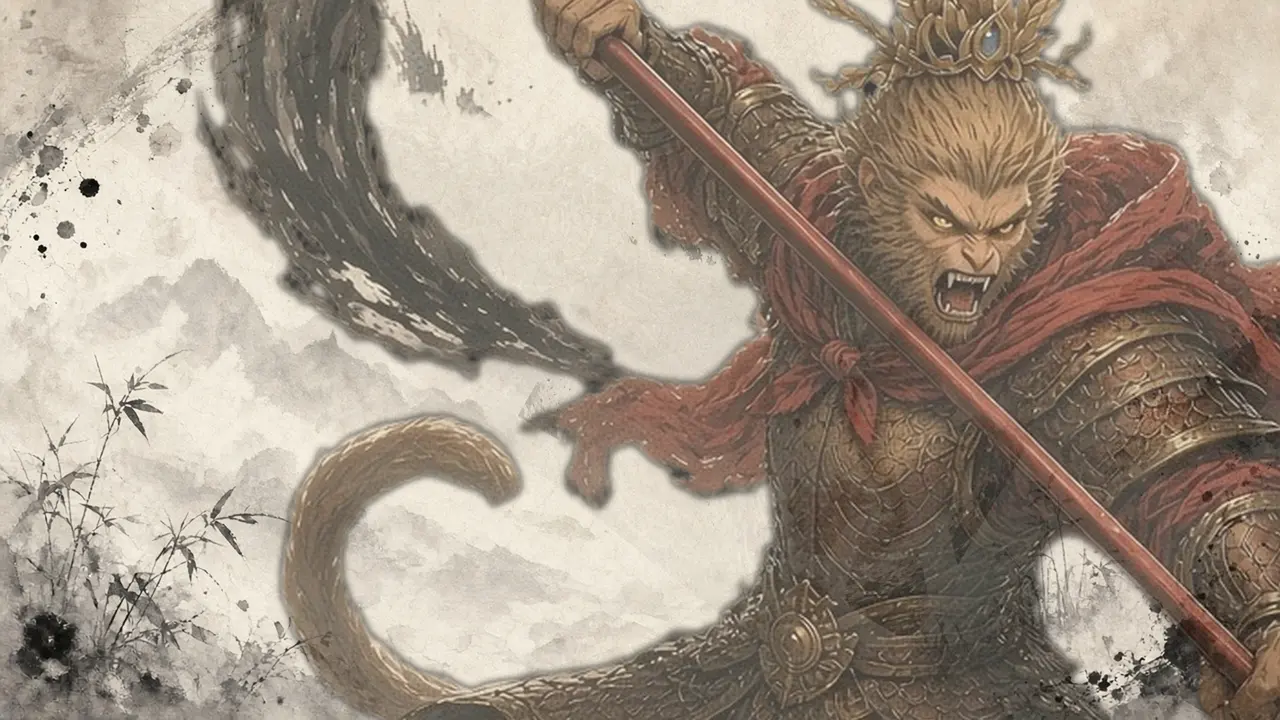
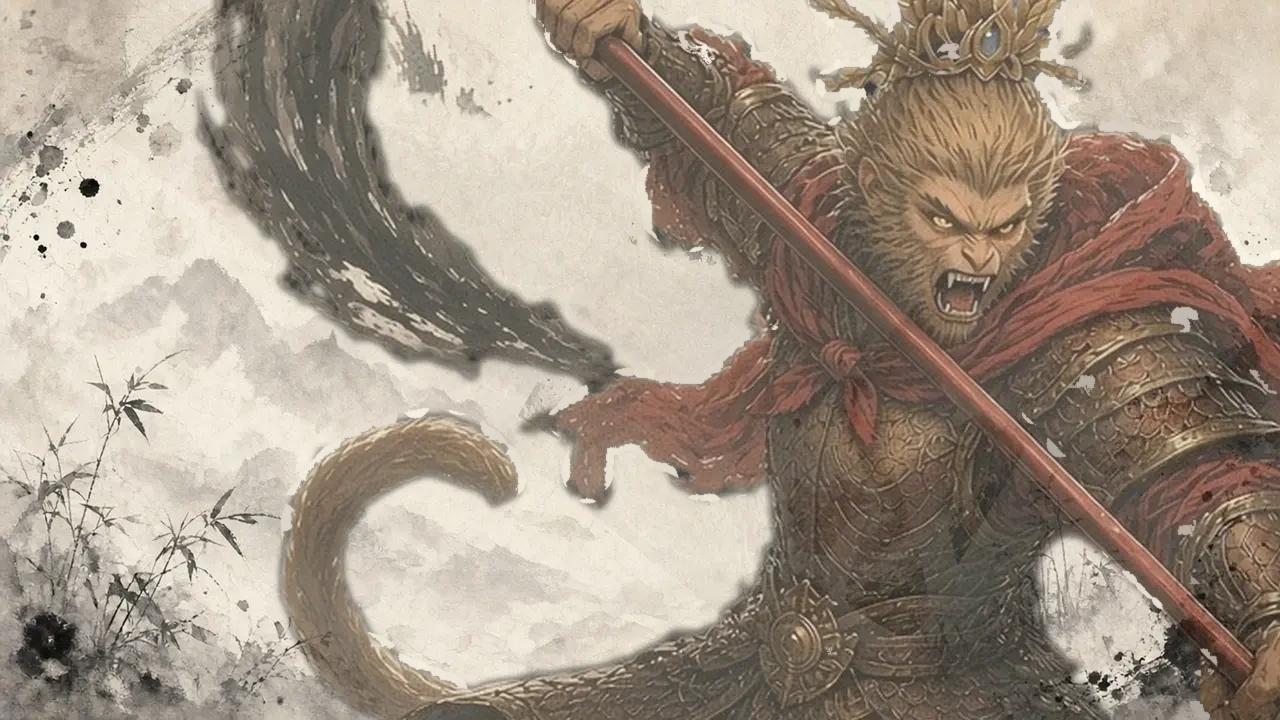
Fill the Wukong close-up and lift the gray rim.
The five boss-fight frames cover the screen without a hard paper strip, and the character frames lose the gray fringe around the cape and tail. The grove and the other pages stay as they were.

diff --git a/bossfight/ui.js b/bossfight/ui.js
@@ -958,18 +958,69 @@
     return WUCLOSE._p;
   }
   function ensureWuClose() { if (!WUCLOSE._p) preloadWu(); }
-  /* 悟空大招特写：浅色宣纸上的五帧。只盖画面，不改出手和伤害。点击关掉。 */
+  /* 悟空大招特写：五帧铺满屏幕。脸和书法留在画面里，边上用画面自身的纸色接出去，不留米色硬边。点击关掉。 */
+  function paintWuPlate(c, im, W, H) {
+    var iw = im.naturalWidth, ih = im.naturalHeight;
+    var fit = Math.min(W / iw, H / ih), cover = Math.max(W / iw, H / ih);
+    var s = fit;
+    if (cover > fit + 0.001) {
+      var overflow = (W / iw >= H / ih) ? (ih - H / cover) : (iw - W / cover);
+      if (overflow < 36) s = cover;
+    }
+    var dw = iw * s, dh = ih * s;
+    var x = (W - dw) / 2, y = (H - dh) / 2;
+    if (dh > H + 1) y = 0;
+    if (dw > W + 1) x = 0;
+    var cv = paintWuPlate.cv || (paintWuPlate.cv = document.createElement('canvas'));
+    var pw = Math.max(1, Math.ceil(W)), ph = Math.max(1, Math.ceil(H));
+    if (cv.width !== pw || cv.height !== ph) { cv.width = pw; cv.height = ph; }
+    var g = cv.getContext('2d');
+    g.setTransform(1, 0, 0, 1, 0, 0);
+    g.imageSmoothingEnabled = true;
+    g.imageSmoothingQuality = 'high';
+    g.drawImage(im, 0, 0, 1, 1, 0, 0, pw, ph);
+    if (x > 0.5) g.drawImage(im, 0, 0, 1, ih, 0, Math.max(0, y), x + 2, dh);
+    if (x + dw < W - 0.5) g.drawImage(im, iw - 1, 0, 1, ih, x + dw - 2, Math.max(0, y), W - (x + dw) + 2, dh);
+    if (y > 0.5) g.drawImage(im, 0, 0, iw, 1, Math.max(0, x), 0, dw, y + 2);
+    if (y + dh < H - 0.5) g.drawImage(im, 0, ih - 1, iw, 1, Math.max(0, x), y + dh - 2, dw, H - (y + dh) + 2);
+    var wide = x > 24 || y > 24;
+    if (wide) { g.filter = 'blur(18px)'; g.drawImage(cv, 0, 0); g.filter = 'none'; }
+    var top = paintWuPlate.top || (paintWuPlate.top = document.createElement('canvas'));
+    if (top.width !== pw || top.height !== ph) { top.width = pw; top.height = ph; }
+    var t = top.getContext('2d');
+    t.setTransform(1, 0, 0, 1, 0, 0);
+    t.clearRect(0, 0, pw, ph);
+    t.imageSmoothingEnabled = true;
+    t.imageSmoothingQuality = 'high';
+    t.drawImage(im, x, y, dw, dh);
+    if (wide) {
+      var fade = 18;
+      t.globalCompositeOperation = 'destination-out';
+      function fadeRect(x0, y0, x1, y1, rx, ry, rw, rh) {
+        var lg = t.createLinearGradient(x0, y0, x1, y1);
+        lg.addColorStop(0, 'rgba(0,0,0,1)');
+        lg.addColorStop(1, 'rgba(0,0,0,0)');
+        t.fillStyle = lg;
+        t.fillRect(rx, ry, rw, rh);
+      }
+      if (x > 0.5) fadeRect(x, 0, x + fade, 0, x, y, fade, dh);
+      if (x + dw < W - 0.5) fadeRect(x + dw, 0, x + dw - fade, 0, x + dw - fade, y, fade, dh);
+      if (y > 0.5) fadeRect(0, y, 0, y + fade, x, y, dw, fade);
+      if (y + dh < H - 0.5) fadeRect(0, y + dh, 0, y + dh - fade, x, y + dh - fade, dw, fade);
+      t.globalCompositeOperation = 'source-over';
+    }
+    g.drawImage(top, 0, 0);
+    c.imageSmoothingEnabled = true;
+    c.imageSmoothingQuality = 'high';
+    c.drawImage(cv, 0, 0, W, H);
+  }
   function drawWuClose(c) {
     if (!(G.wuCut > 0) || G.wuCutOff) return;
     ensureWuClose();
     var total = 2.4, t = total - G.wuCut, idx = Math.max(0, Math.min(4, Math.floor(t / total * 5))), im = WUCLOSE[idx];
     c.save();
-    c.fillStyle = '#f3ecdc';
-    c.fillRect(0, 0, G.W, G.H);
-    if (im && im.naturalWidth) {
-      var s = Math.min(G.W / im.naturalWidth, G.H / im.naturalHeight), dw = im.naturalWidth * s, dh = im.naturalHeight * s;
-      c.drawImage(im, (G.W - dw) / 2, (G.H - dh) / 2, dw, dh);
-    }
+    if (im && im.naturalWidth) paintWuPlate(c, im, G.W, G.H);
+    else { c.fillStyle = '#f3ecdc'; c.fillRect(0, 0, G.W, G.H); }
     var skip = Math.max(18, Math.round(16 * Math.min(G.S, 1.6)));
     c.fillStyle = '#2a2218'; c.font = skip + 'px "Ma Shan Zheng","KaiTi",serif'; c.textAlign = 'right'; c.textBaseline = 'alphabetic';
     c.fillText('点按跳过', G.W - 24, G.H - 28);
